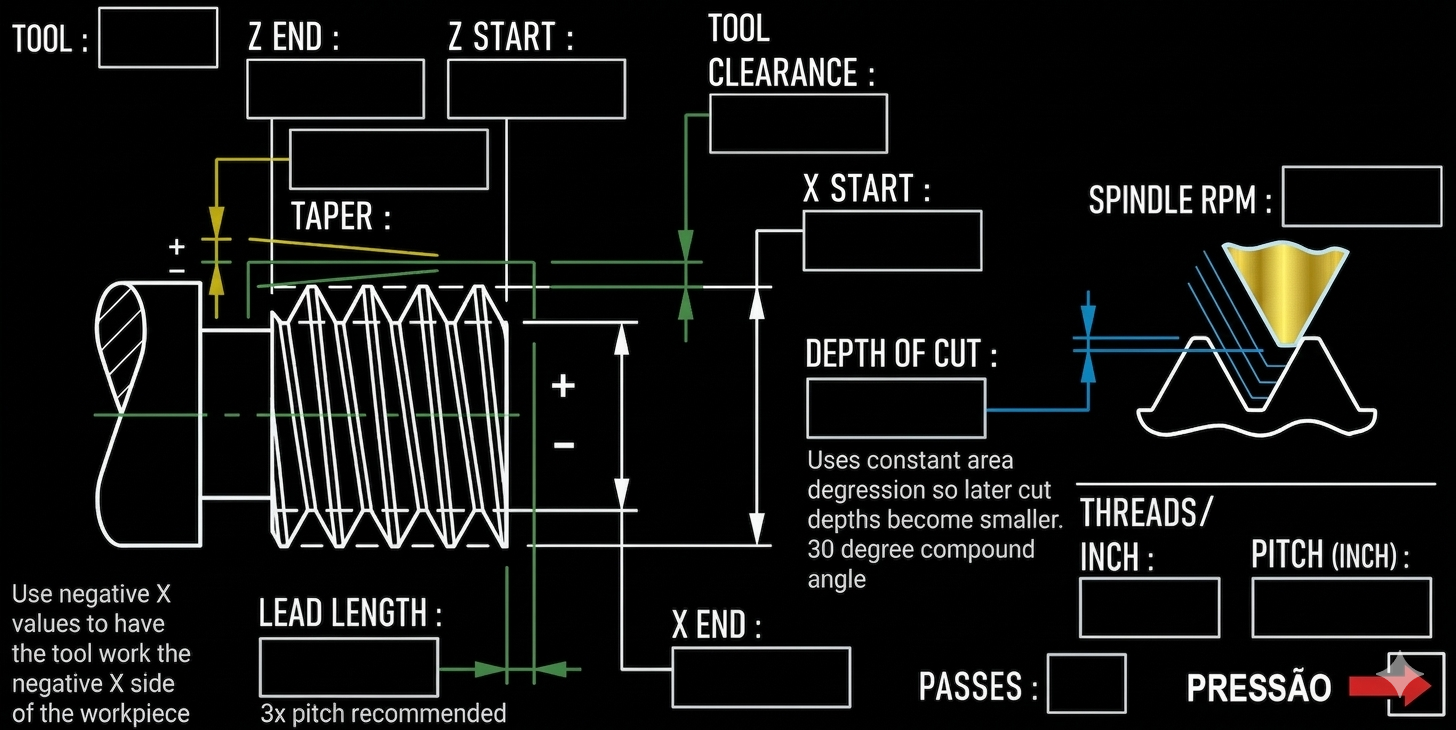
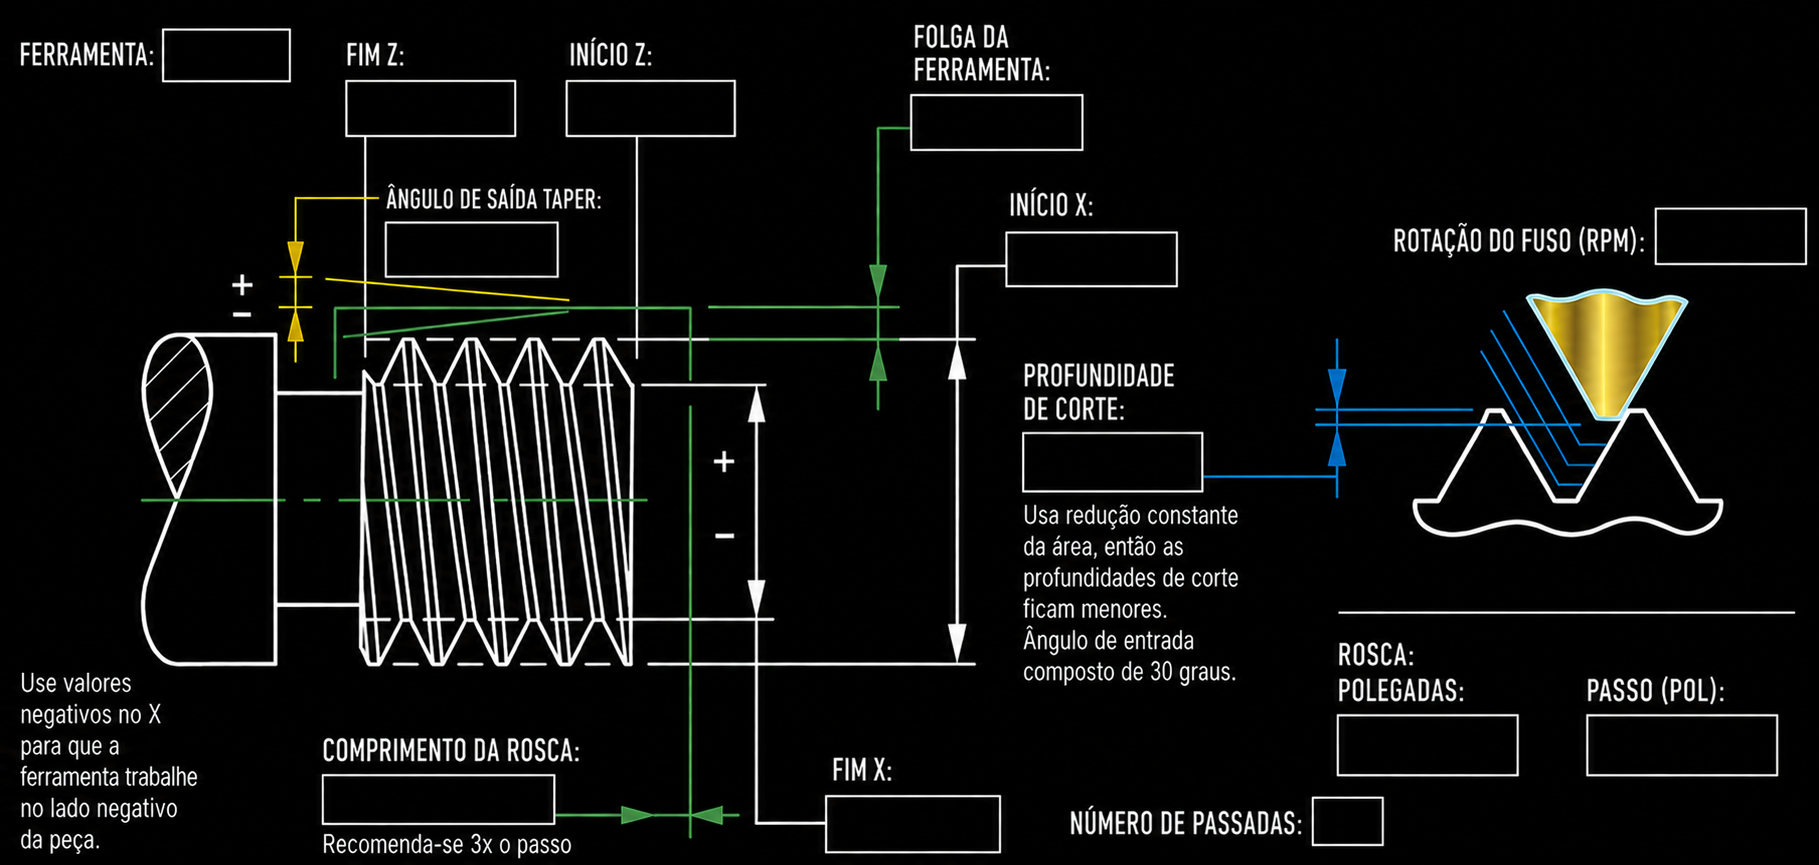
Rosca externa: desenho em PT-BR (caixas remedidas)
Imagem nova 1819x865 (a antiga era 1456x730, e a proporcao mudou de 1.99
para 2.10). Os 12 retangulos foram remedidos na imagem e conferidos com o
painel renderizado: cada campo cai dentro da sua caixa.

A rosca INTERNA ficou de fora de propositio. A versao traduzida marca o
campo de X de cima como "INICIO X", mas ali e' o FIM X (e' onde estava o
"X END" no desenho original), e ainda apareceu uma caixa a mais embaixo:
"X START" e "FIM X" empilhados, onde o desenho so tem um campo. Como o
operador digitaria no campo errado — e rosca com X trocado sai com a
profundidade errada — ela continua em ingles ate a arte ser corrigida.

Changed region(s): [[0.0, 0.0, 1.0, 0.9945]]

diff --git a/torno_cam_ui/thread_panel.py b/torno_cam_ui/thread_panel.py
@@ -39,19 +39,20 @@ MAXC = {"toolNumber": 2, "spindleRPM": 4, "passes": 2, "tpi": 4,
 IGNORADOS = ("depthOfCut", "leadInLength")
 
 VARIANTES = {
-    "EXTERNAL": ("thread-bg.png", 1450.0 / 720.0, {
-        "toolNumber":   (0.06799, 0.01096, 0.08036, 0.07945),
-        "zEnd":         (0.17033, 0.08219, 0.11951, 0.07808),
-        "zStart":       (0.30838, 0.08219, 0.12019, 0.07808),
-        "clearance":    (0.48832, 0.13014, 0.12019, 0.07671),
-        "xStart":       (0.55220, 0.28904, 0.12088, 0.07945),
-        "spindleRPM":   (0.88187, 0.22877, 0.10714, 0.07945),
-        "depthOfCut":   (0.55495, 0.51918, 0.12088, 0.07808),
-        "tpi":          (0.74245, 0.79315, 0.09409, 0.07808),
-        "pitch":        (0.86058, 0.79315, 0.12088, 0.07808),
-        "xEnd":         (0.46223, 0.88767, 0.12088, 0.07945),
-        "leadInLength": (0.17926, 0.87534, 0.12019, 0.07671),
-        "passes":       (0.71978, 0.89726, 0.05220, 0.07671),
+    # desenho em PT-BR (1819x865). Retangulos remedidos com detecta_caixas.py
+    "EXTERNAL": ("thread-bg.png", 1819.0 / 865.0, {
+        "toolNumber":   (0.08961, 0.03353, 0.06927, 0.05896),
+        "zEnd":         (0.18966, 0.09249, 0.09346, 0.06358),
+        "zStart":       (0.31116, 0.09249, 0.09291, 0.06358),
+        "clearance":    (0.50027, 0.10867, 0.09456, 0.06358),
+        "xStart":       (0.55305, 0.26821, 0.09346, 0.06127),
+        "spindleRPM":   (0.90984, 0.24046, 0.08301, 0.06358),
+        "depthOfCut":   (0.56185, 0.49942, 0.09896, 0.06821),
+        "tpi":          (0.73502, 0.82543, 0.09951, 0.06936),
+        "pitch":        (0.87191, 0.82543, 0.10500, 0.06936),
+        "xEnd":         (0.45355, 0.91908, 0.09621, 0.06474),
+        "leadInLength": (0.17702, 0.89480, 0.12754, 0.05665),
+        "passes":       (0.72128, 0.92139, 0.03903, 0.05434),
     }),
     "INTERNAL": ("thread-internal-bg.png", 1456.0 / 731.0, {
         "toolNumber":   (0.07761, 0.02736, 0.07830, 0.07661),

diff --git a/CyberDino/Cofre CyberDino/17 - Aba GERAR PGM (Conversational de Torno).md b/CyberDino/Cofre CyberDino/17 - Aba GERAR PGM (Conversational de Torno).md
@@ -24,6 +24,13 @@ python3 torno_cam_ui/tools/detecta_caixas.py <imagem-bg.png>
 Ele acha os retangulos brancos e imprime a tabela `FIELDS` pronta.
 Procedimento completo e armadilhas: `torno_cam_ui/README-novo-painel.md`.
 
+**Desenhos em PT-BR:** a rosca EXTERNA ja esta traduzida (1819x865, retangulos
+remedidos em 2026-08-02). A INTERNA continua em ingles — a versao traduzida que
+chegou tinha o campo do X de cima marcado como "INICIO X" quando ali e' o FIM X,
+e ainda ganhou uma caixa a mais embaixo ("X START" + "FIM X" empilhados, onde o
+desenho so tem um). Digitar no campo errado da a rosca com profundidade errada,
+entao ela nao foi instalada.
+
 **Modo imersivo:** ao entrar na aba, a faixa inferior e o painel lateral
 somem (`showEvent`/`hideEvent` em `tab.py`) — o desenho ocupa a tela quase
 toda, pra acertar os campos com o dedo. Precisa levantar o teto de 680px do
